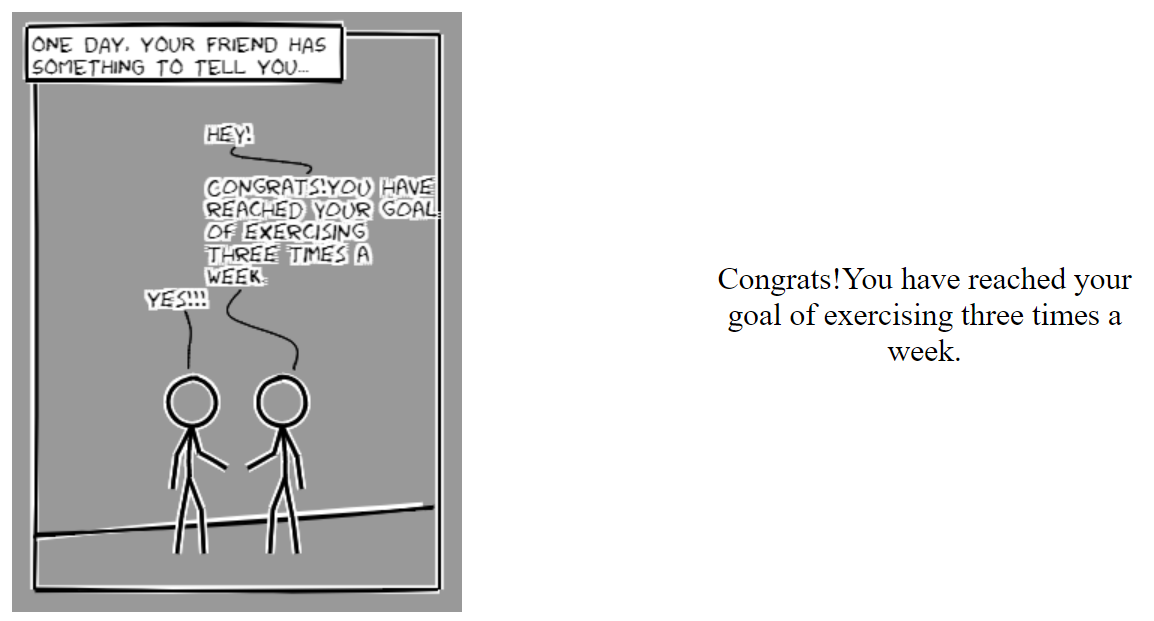
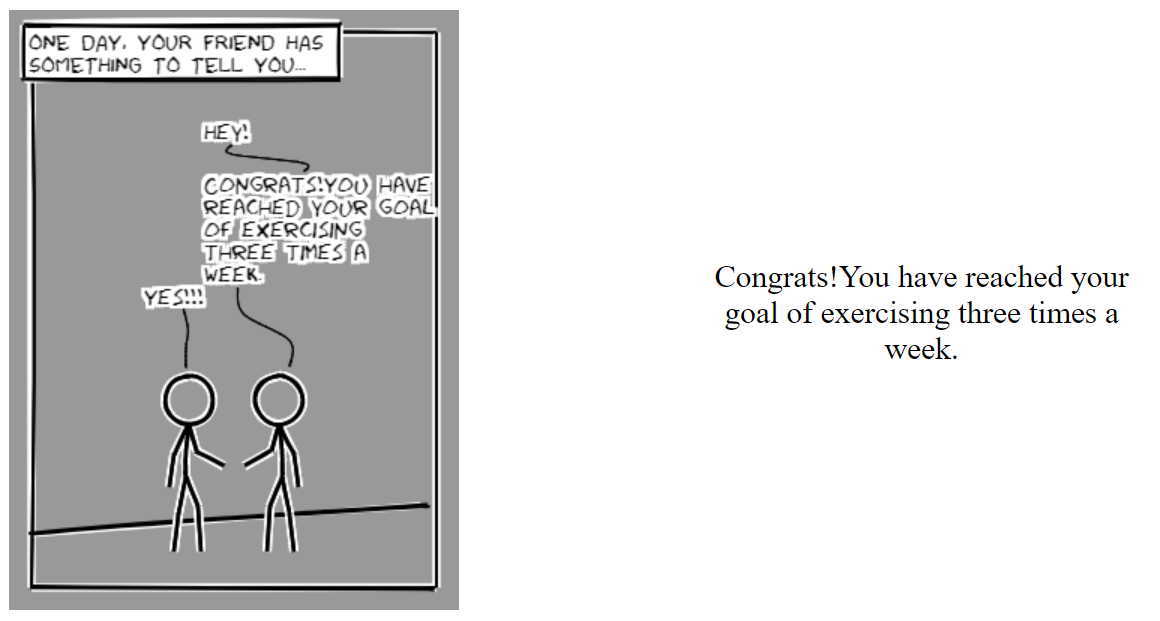
Latest version

Changed region(s): [[0.0, 0.0, 0.4055, 1.0], [0.5927, 0.4283, 0.9983, 0.5813], [0.2184, 0.5201, 0.2496, 0.5507]]

diff --git a/app/templates/index.html b/app/templates/index.html
@@ -2,19 +2,14 @@
 <meta charset="utf-8">
 <head>
 <script type="text/javascript" src="static/js/customize.js"></script>
-<script src="https://code.createjs.com/easeljs-0.8.2.min.js"></script>
 <script src="http://hongru.github.io/proj/canvas2image/canvas2image.js"></script>
 <script type="text/javascript" src="static/js/rough.js"></script>
+<script type="text/javascript" src="static/js/jquery-3.2.1.min.js"></script>
+
 <!-- fonts -->
 <!--link rel="stylesheet" href="http://localhost:5000/xkcd/"-->
 <link rel="stylesheet" media="screen" href="https://fontlibrary.org/face/humor-sans" type="text/css"/>
 <link rel="stylesheet" media="screen" href="https://fontlibrary.org/face/ruji-s-handwriting-font-v-2-0" type="text/css"/>
-<link href="https://fonts.googleapis.com/css?family=Just+Me+Again+Down+Here" rel="stylesheet">
-<link href="https://fonts.googleapis.com/css?family=Slackey" rel="stylesheet">
-<link href="https://fonts.googleapis.com/css?family=Coming+Soon" rel="stylesheet">
-<link href="https://fonts.googleapis.com/css?family=Shadows+Into+Light+Two" rel="stylesheet">
-<link href="https://fonts.googleapis.com/css?family=Indie+Flower" rel="stylesheet">
-<link href="https://fonts.googleapis.com/css?family=Passion+One" rel="stylesheet">
 <!-- JQuery -->
 <!--script src="https://ajax.aspnetcdn.com/ajax/jQuery/jquery-3.2.1.min.js"></script-->
 </head>
@@ -28,7 +23,7 @@
 		<td id="middlePart" align="center" style="width:150px;"></td>
 
 		<td id="textPart" class="myText" align="center" 
-		style="width:300px; font-size: 20px;font-family: HumorSansRegular;font-weight: bold;">
+		style="width:300px; font-size: 21px;font-family:Times New Roman;">
     <!-- Last 2 weeks , You went to the gym less than 60% of your friends!! -->
     <!-- Congrats! You have reached your goal of exercising three times a week. -->
     <!-- Over the past month, your exercise activity was less than that of 90% of your friends. -->
@@ -42,25 +37,26 @@
 	
 	<div>Edit Area
 	<div >
-		<textarea id="messageArea" width="100px" height="50px">{mark:"B",content:"Congrats!"},
-{mark:"B",content:"You have reached your goal of exercising three times a week."},
+		<textarea id="messageArea" width="100px" height="50px">{mark:"B",content:"Hey!"},
+{mark:"B",content:"Congrats!You have reached your goal of exercising three times a week."},
 {mark:"A",content:"Yes!!!"}</textarea>
 		<br>
 		gestA
-		<textarea id="gestAreaA">1</textarea>
+		<textarea id="gestAreaA">0</textarea>
 		gestB
 		<textarea id="gestAreaB">0</textarea>
 		dist
-		<textarea id="distArea">1</textarea>
+		<textarea id="distArea">0</textarea>
 		shad
-		<textarea id="shadArea">1</textarea>
+		<textarea id="shadArea">0</textarea>
 		<button type="button" onclick="load()">Rerender</button>
 		<button type="button" onclick="comicPosition()">Switch!</button>
 		<button type="button" onclick="saveCanvas()">Save</button>
+		<button type="button" id="transferBtn">trans</button>
 	</div>
 	</div>
   <image id="theimage"></image>
-  <div id="test"></div>
+  
   </body>
 
   <!--script src="js/require.js" defer async="true" ></script-->

diff --git a/app/static/js/customize.js b/app/static/js/customize.js
@@ -168,6 +168,13 @@ function render_rough(gestA=defaultGest,gestB=defaultGest,dist=defaultDist, shad
 	if(gestB == 2){
 		posBY+=10
 	}
+	
+	//Add crowd
+	drawCharacter(rough,posBX+45,posBY,3,1,"white",6);
+	drawCharacter(rough,posBX+45,posBY,3,1,"black",2.5,0.5);
+	drawCharacter(rough,posBX+60,posBY,3,1,"white",6);
+	drawCharacter(rough,posBX+60,posBY,3,1,"black",2.5,0.5);
+	
 	drawCharacter(rough,posAX,posAY,gestA,-1,"white",6);
 	drawCharacter(rough,posBX,posBY,gestB,1,"white",6);
 	
@@ -321,6 +328,23 @@ function drawCharacter(rough,x,y,gest=defaultGest,ori = -1,lineColor="black",lin
 			rightLegPointAX=bodyPointCX-ori*22;rightLegPointAY=bodyPointCY+10;
 			rightLegPointBX=rightLegPointAX-ori*3;rightLegPointBY=rightLegPointAY+23;
 			break;
+		case 3:
+			headPointX=x; headPointY=y; 
+			//body
+			bodyPointAX=headPointX;bodyPointAY=headPointY+headRadius; 
+			bodyPointBX=bodyPointAX+ori*3;bodyPointBY=bodyPointAY+18;
+			bodyPointCX=bodyPointAX+ori*3;bodyPointCY=bodyPointAY+40;
+			// Arms
+			leftArmPointAX=bodyPointAX-ori*3;leftArmPointAY=bodyPointAY+20;
+			leftArmPointBX=leftArmPointAX-ori*3;leftArmPointBY=leftArmPointAY+25;
+			rightArmPointAX=bodyPointAX+ori*7;rightArmPointAY=bodyPointAY+20;
+			rightArmPointBX=rightArmPointAX+ori*3;rightArmPointBY=rightArmPointAY+25;
+			// Legs
+			leftLegPointAX=bodyPointCX+ori*5;leftLegPointAY=bodyPointCY+20;
+			leftLegPointBX=leftLegPointAX+ori*3;leftLegPointBY=leftLegPointAY+20;
+			rightLegPointAX=bodyPointCX-ori*5;rightLegPointAY=bodyPointCY+20;
+			rightLegPointBX=rightLegPointAX-ori*3;rightLegPointBY=rightLegPointAY+20;
+			break;
 		default:
 			headPointX=x; headPointY=y; 
 			//body
@@ -328,10 +352,10 @@ function drawCharacter(rough,x,y,gest=defaultGest,ori = -1,lineColor="black",lin
 			bodyPointBX=bodyPointAX+ori*3;bodyPointBY=bodyPointAY+18;
 			bodyPointCX=bodyPointAX+ori*3;bodyPointCY=bodyPointAY+40;
 			// Arms
-			leftArmPointAX=bodyPointAX-ori*3;leftArmPointAY=bodyPointAY+18;
+			leftArmPointAX=bodyPointAX-ori*3;leftArmPointAY=bodyPointAY+20;
 			leftArmPointBX=leftArmPointAX-ori*3;leftArmPointBY=leftArmPointAY+25;
 			rightArmPointAX=bodyPointAX+ori*7;rightArmPointAY=bodyPointAY+20;
-			rightArmPointBX=rightArmPointAX+ori*7;rightArmPointBY=rightArmPointAY+25;
+			rightArmPointBX=rightArmPointAX+ori*3;rightArmPointBY=rightArmPointAY+25;
 			// Legs
 			leftLegPointAX=bodyPointCX+ori*5;leftLegPointAY=bodyPointCY+20;
 			leftLegPointBX=leftLegPointAX+ori*3;leftLegPointBY=leftLegPointAY+20;
@@ -344,6 +368,8 @@ function drawCharacter(rough,x,y,gest=defaultGest,ori = -1,lineColor="black",lin
 	var head = rough.circle(headPointX, headPointY, headRadius);
 	head.stroke = lineColor;
 	head.strokeWidth = lineStroke;
+	head.fill = "white";
+	head.fillStyle = "solid";
 	head.roughness = roughness;
 	// Body
 	var body=rough.curve([[bodyPointAX, bodyPointAY],[bodyPointBX,bodyPointBY], [bodyPointCX,bodyPointCY]]);
@@ -437,3 +463,5 @@ function saveCanvas(){
 	link.href = dataString;
 	link.click();
 }
+
+

diff --git a/index.html b/index.html
@@ -2,19 +2,12 @@
 <meta charset="utf-8">
 <head>
 <script type="text/javascript" src="app/static/js/customize.js"></script>
-<script src="https://code.createjs.com/easeljs-0.8.2.min.js"></script>
 <script src="http://hongru.github.io/proj/canvas2image/canvas2image.js"></script>
 <script type="text/javascript" src="app/static/js/rough.js"></script>
 <!-- fonts -->
 <!--link rel="stylesheet" href="http://localhost:5000/xkcd/"-->
 <link rel="stylesheet" media="screen" href="https://fontlibrary.org/face/humor-sans" type="text/css"/>
 <link rel="stylesheet" media="screen" href="https://fontlibrary.org/face/ruji-s-handwriting-font-v-2-0" type="text/css"/>
-<link href="https://fonts.googleapis.com/css?family=Just+Me+Again+Down+Here" rel="stylesheet">
-<link href="https://fonts.googleapis.com/css?family=Slackey" rel="stylesheet">
-<link href="https://fonts.googleapis.com/css?family=Coming+Soon" rel="stylesheet">
-<link href="https://fonts.googleapis.com/css?family=Shadows+Into+Light+Two" rel="stylesheet">
-<link href="https://fonts.googleapis.com/css?family=Indie+Flower" rel="stylesheet">
-<link href="https://fonts.googleapis.com/css?family=Passion+One" rel="stylesheet">
 <!-- JQuery -->
 <!--script src="https://ajax.aspnetcdn.com/ajax/jQuery/jquery-3.2.1.min.js"></script-->
 </head>

diff --git a/app/hello.py b/app/hello.py
@@ -1,0 +1,19 @@
+from flask import Flask
+from flask import Response
+from flask import render_template
+
+app = Flask(__name__)
+
+@app.route("/")
+def index():
+    #return "Hello World"
+	#return render_template("test.html")
+	return render_template("index.html")
+	
+@app.route("/xkcd/")
+def xkcd():
+    with open('comicGenerator/css/xkcd.css') as f:
+	    return Response(f.read(), mimetype='text/css')
+
+if __name__ == "__main__":
+    app.run()
